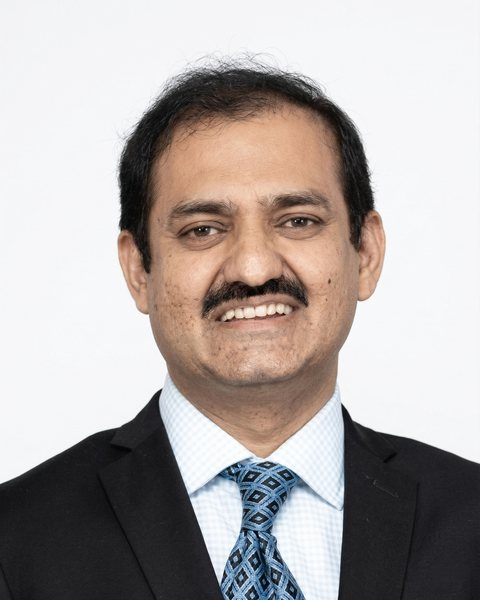
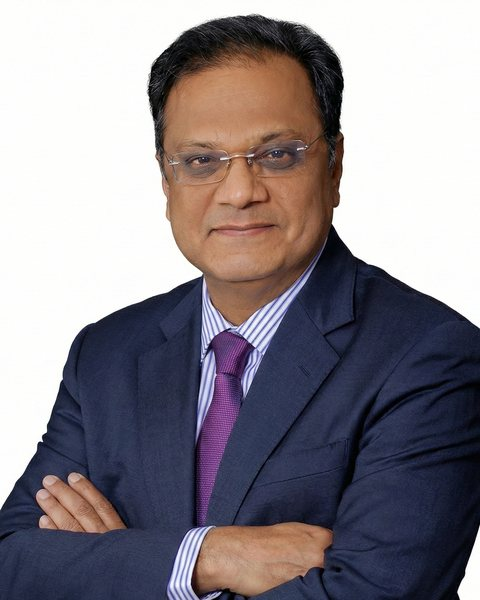
fix(client): swap Rawal/Somashekhar photos and reorder Social profile
Order: Sudhir Rawal, S P Somashekhar, Chandra Mohan Vaddi, Magan Mehrotra,
Lalit Aditya Malik, Nitin Rajput.

diff --git a/client/src/data/socialProfiles.js b/client/src/data/socialProfiles.js
@@ -1,22 +1,20 @@
-import chandraMohanVaddi from '../assets/social/chandra-mohan-vaddi.jpg';
+import sudhirRawal from '../assets/social/sudhir-rawal.jpg';
 import somashekharSp from '../assets/social/somashekhar-sp.jpg';
+import chandraMohanVaddi from '../assets/social/chandra-mohan-vaddi.jpg';
 import maganMehrotra from '../assets/social/magan-mehrotra.jpg';
 import lalitAdityaMalik from '../assets/social/lalit-aditya-malik.jpg';
-import sudhirRawal from '../assets/social/sudhir-rawal.jpg';
 import nitinRajput from '../assets/social/nitin-rajput.jpg';
 
-// Surgeons' YouTube channels shown on "Social profile" (in this order).
-// Photo matching: Lalit Aditya Malik and Magan Mehrotra by the name on the
-// coat, Nitin Rajput by the Medanta logo; Chandra Mohan Vaddi, S P Somashekhar
-// and Sudhir Rawal by upload order — swap the imports above if one is wrong.
+// Surgeons' YouTube channels shown on "Social profile", in this order.
+// Photos confirmed by the client (one file per surgeon in assets/social/).
 export const SOCIAL_PROFILES = [
   {
-    id: 'chandra-mohan-vaddi',
-    name: 'Dr. Chandra Mohan Vaddi',
-    affiliation: 'Preeti Urology & Kidney Hospital',
-    photo: chandraMohanVaddi,
-    channel: 'https://www.youtube.com/@PreetiKidneyHospital',
-    handle: '@PreetiKidneyHospital',
+    id: 'sudhir-rawal',
+    name: 'Dr. Sudhir Rawal',
+    affiliation: 'Rajiv Gandhi Cancer Institute and Research Center',
+    photo: sudhirRawal,
+    channel: 'https://www.youtube.com/@uro-oncologysurgicaltechni3250',
+    handle: '@uro-oncologysurgicaltechni3250',
   },
   {
     id: 'somashekhar-sp',
@@ -24,6 +22,14 @@ export const SOCIAL_PROFILES = [
     photo: somashekharSp,
     channel: 'https://www.youtube.com/@dr.somashekharsp8545',
     handle: '@dr.somashekharsp8545',
+  },
+  {
+    id: 'chandra-mohan-vaddi',
+    name: 'Dr. Chandra Mohan Vaddi',
+    affiliation: 'Preeti Urology & Kidney Hospital',
+    photo: chandraMohanVaddi,
+    channel: 'https://www.youtube.com/@PreetiKidneyHospital',
+    handle: '@PreetiKidneyHospital',
   },
   {
     id: 'magan-mehrotra',
@@ -38,14 +44,6 @@ export const SOCIAL_PROFILES = [
     photo: lalitAdityaMalik,
     channel: 'https://www.youtube.com/@dr.lalitadityamalik',
     handle: '@dr.lalitadityamalik',
-  },
-  {
-    id: 'sudhir-rawal',
-    name: 'Dr. Sudhir Rawal',
-    affiliation: 'Rajiv Gandhi Cancer Institute and Research Center',
-    photo: sudhirRawal,
-    channel: 'https://www.youtube.com/@uro-oncologysurgicaltechni3250',
-    handle: '@uro-oncologysurgicaltechni3250',
   },
   {
     id: 'nitin-rajput',
